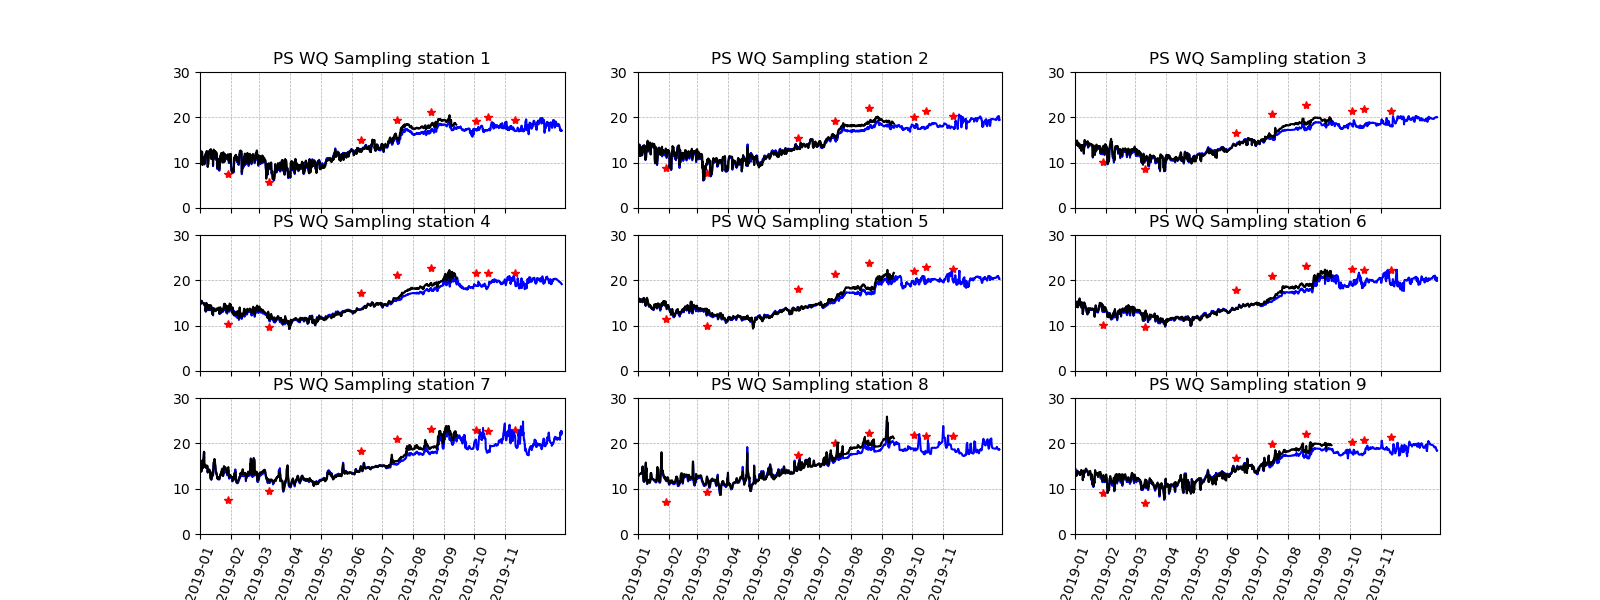
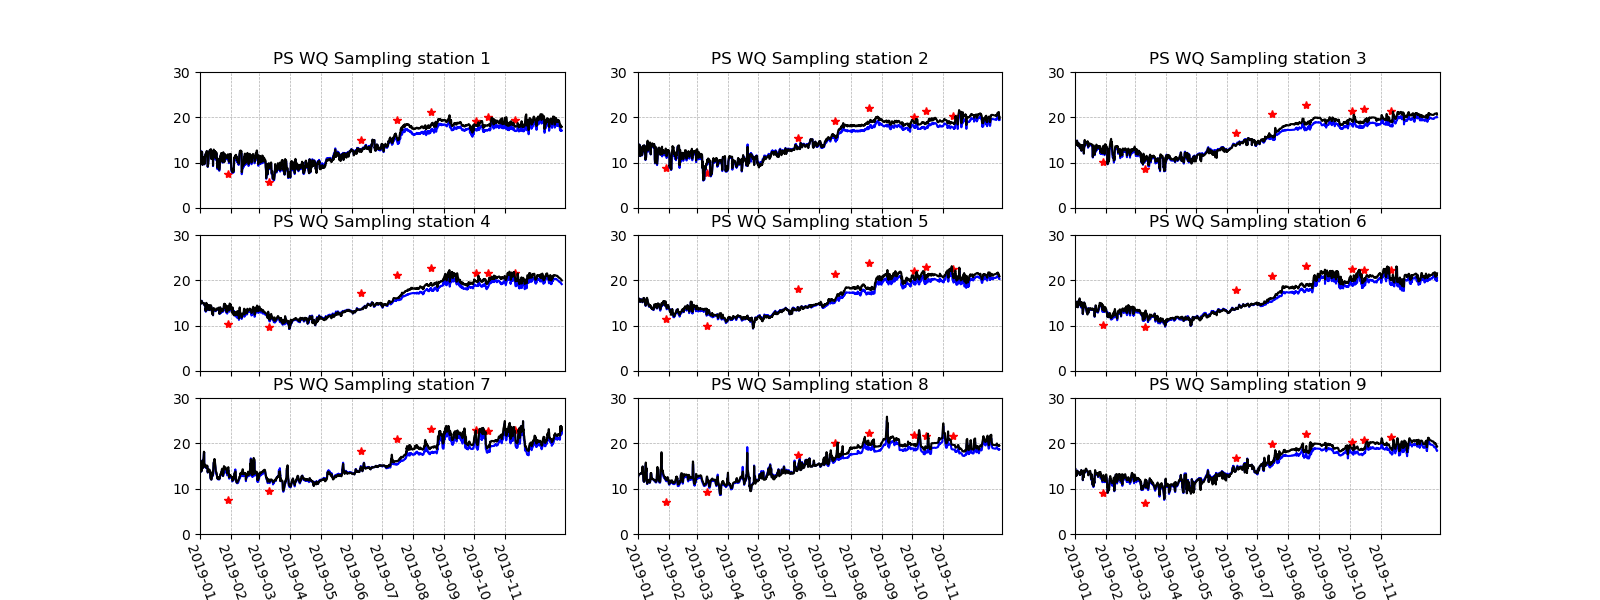
update validation codes

diff --git a/Calibration/Validate_NRE.py b/Calibration/Validate_NRE.py
@@ -1,0 +1,75 @@
+#!/usr/bin/env python3
+from pylib import *
+
+# coordinates of PS stations (ps1 to ps9)
+
+bpfile=('station_nre.bp')
+bp = read_schism_bpfile(bpfile)
+stations=[0,10,20,30,40,50,60,70,80,90,100,110,120,130,140,150,160,170,180]
+
+S=loadz('/home/liuquncw/APS/Obs/ModMon/NRE_WQ_2019.npz')
+mod=loadz('./mod_at_nre_stations.npz')
+
+# make a sample plot
+figure(figsize=[16, 6])
+xts,xls=get_xtick(fmt=2,xts=[datenum(2019,1,1),datenum(2019,12,30)],str='%d/%b')
+xts,xls=xts[::60],xls[::60]; xls[0]=xls[0]+', 2018'
+
+mond = [datenum(2018,i+1,1) for i in range(23)]
+Mond=np.array(mond); mons=Mond*24*3600
+datetime= num2date(Mond)#+datenum(2018,1,1))
+Datestr=[datetime[i].strftime('%m') for i in range(23)]
+
+for i,sta in enumerate([20, 30, 50, 70,100,160]):#enumerate(stations[1:19:3]): #arange(0,190,10):
+    print(i)
+    #print(sta)
+    #figure(figsize=[16, 6])
+    subplot(3,2,i+1)
+    #figure(figsize=[8, 3.5])
+    pd=(S.station==sta)*(S.depthcat=="S")
+    pdm=stations.index(sta)
+    plot(S.time[pd],S.temp[pd],'r*', label='Observed')
+    plot(mod.time+datenum(2019,1,1),mod.temp[pdm,:],'b', label='Model')
+    setp(gca(),xticks=Mond,xticklabels=[],xlim=[datenum(2019,1,1),datenum(2019,12,30)],ylim=[0,30])
+    if i>3: setp(gca(),xticks=Mond,xticklabels=Datestr,xlim=[datenum(2019,1,1),datenum(2019,12,30)],ylim=[0,30])
+    xticks(rotation=70)
+    title('Station {}'.format(sta))
+    grid(linestyle = '--', linewidth = 0.5)
+    if i==1:
+        plt.legend()
+    else:
+        continue
+plt.suptitle('Temperature Comparison at NRE Stations - RUN2002a')
+
+show(block=False)
+savefig('figures_validate/Compare_Temp_NRE_RUN2002a.png')
+
+figure(figsize=[16, 6])
+xts,xls=get_xtick(fmt=2,xts=[datenum(2019,1,1),datenum(2019,12,30)],str='%d/%b')
+xts,xls=xts[::60],xls[::60]; xls[0]=xls[0]+', 2018'
+
+
+for i,sta in enumerate([20, 30, 50,70,100,160]):#enumerate(stations[1:19:3]): #arange(0,190,10):
+    print(i)
+    subplot(3,2,i+1)
+    pd=(S.station==sta)*(S.depthcat=="S")
+    pd2=(S.station==sta)*(S.depthcat=="B")
+    pdm=stations.index(sta)
+    plot(S.time[pd],S.salt[pd],'r*', label='Observed Surface')
+    plot(S.time[pd2],S.salt[pd2],'m*', label='Observed Bottom')
+    plot(mod.time+datenum(2019,1,1),mod.salt[pdm,:],'b', label='Model')
+    setp(gca(),xticks=Mond,xticklabels=[],xlim=[datenum(2019,1,1),datenum(2019,12,30)],ylim=[0,30])
+    if i>3: setp(gca(),xticks=Mond,xticklabels=Datestr,xlim=[datenum(2019,1,1),datenum(2019,12,30)],ylim=[0,30])
+    xticks(rotation=70)
+    title('Station {}'.format(sta))
+    grid(linestyle = '--', linewidth = 0.5)
+    if i==1:
+        plt.legend()
+    else:
+        continue
+plt.suptitle('Salinity Comparison at NRE Stations - RUN2002a')
+
+show(block=False)
+savefig('figures_validate/Compare_Salt_NRE_RUN2002a.png')
+
+

diff --git a/Calibration/Validate_PS.py b/Calibration/Validate_PS.py
@@ -1,0 +1,63 @@
+#!/usr/bin/env python3
+from pylib import *
+
+# coordinates of PS stations (ps1 to ps9)
+lon_ps=c_[-76.47653, -76.42758,-76.34330,-76.26680,-76.20060,-76.24867,-76.22947,-76.30570,-76.37275]
+lat_ps=c_[35.1201,35.15056667,35.13125,35.11841667,35.1225,35.08255,35.03205,35.02616667,35.09986667]
+
+
+S=loadz('/home/liuquncw/APS/Obs/ModMon/PS_WQ_2021.npz')
+mod=loadz('./mod_at_ps_wq_stations.npz')
+
+# make a sample plot
+figure(figsize=[16, 6])
+xts,xls=get_xtick(fmt=2,xts=[datenum(2019,1,1),datenum(2019,12,30)],str='%d/%b')
+xts,xls=xts[::60],xls[::60]; xls[0]=xls[0]+', 2018'
+
+mond = [datenum(2018,i+1,1) for i in range(23)]
+Mond=np.array(mond); mons=Mond*24*3600
+datetime= num2date(Mond)#+datenum(2018,1,1))
+Datestr=[datetime[i].strftime('%m') for i in range(23)]
+
+for i in arange(9):
+    print(i)
+    subplot(3,3,i+1)
+    pd=(S.station==i+1)*(S.depthcat==1)
+    plot(S.time[pd],S.temp[pd],'r*', label='Observed')
+    plot(mod.time+datenum(2019,1,1),mod.temp[i,:],'b', label='Model')
+    setp(gca(),xticks=Mond, xticklabels=[], xlim=[datenum(2019,1,1),datenum(2019,12,30)],ylim=[0,30])
+    if i>=6: setp(gca(),xticks=Mond,xticklabels=Datestr,xlim=[datenum(2019,1,1),datenum(2019,12,30)],ylim=[0,30])
+    xticks(rotation=70)
+    grid(linestyle = '--', linewidth = 0.5)
+    title('Station {}'.format(i+1))
+    if i==1:
+        plt.legend()
+    else:
+        continue
+
+plt.suptitle('Temperature Comparison at PS Stations - RUN2002a')
+savefig('figures_validate/Compare_Temp_PS_WQ_RUN2002a.png')
+
+figure(figsize=[16, 6])
+xts,xls=get_xtick(fmt=2,xts=[datenum(2019,1,1),datenum(2019,12,30)],str='%d/%b')
+xts,xls=xts[::60],xls[::60]; xls[0]=xls[0]+', 2018'
+for i in arange(9):
+    print(i)
+    subplot(3,3,i+1)
+    pd=(S.station==i+1)*(S.depthcat==1)
+    plot(S.time[pd],S.salt[pd],'r*', label='Observed')
+    plot(mod.time+datenum(2019,1,1),mod.salt[i,:],'b', label='Model')
+    setp(gca(),xticks=Mond, xticklabels=[], xlim=[datenum(2019,1,1),datenum(2019,12,30)],ylim=[0,30])
+    if i>=6: setp(gca(),xticks=Mond,xticklabels=Datestr,xlim=[datenum(2019,1,1),datenum(2019,12,30)],ylim=[0,30])
+    xticks(rotation=70)
+    grid(linestyle = '--', linewidth = 0.5)
+    title('Station {}'.format(i+1))
+    if i==1:
+        plt.legend()
+    else:
+        continue
+plt.suptitle('Salinity Comparison at PS Stations - RUN2002a')
+
+#show(block=False)
+savefig('figures_validate/Compare_Salt_PS_WQ_RUN2002a.png')
+
